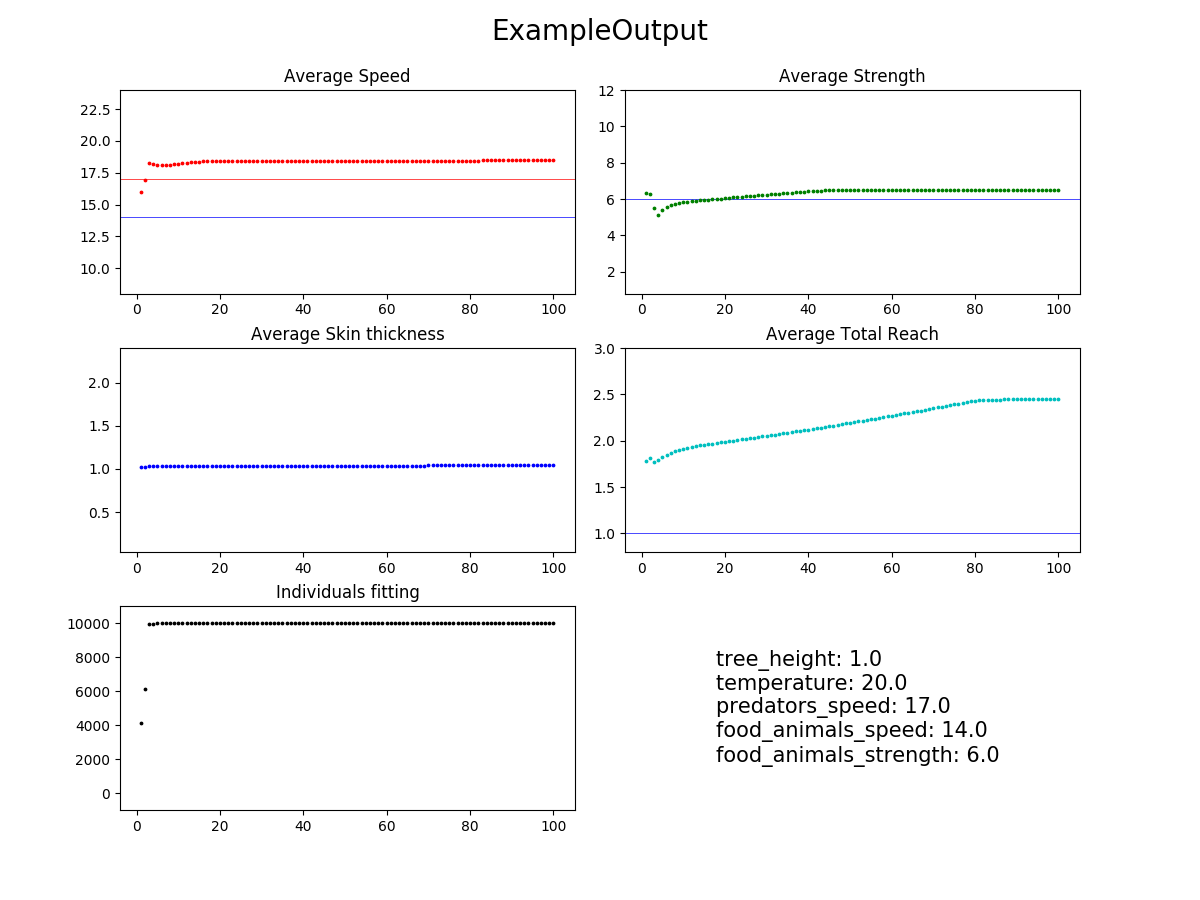
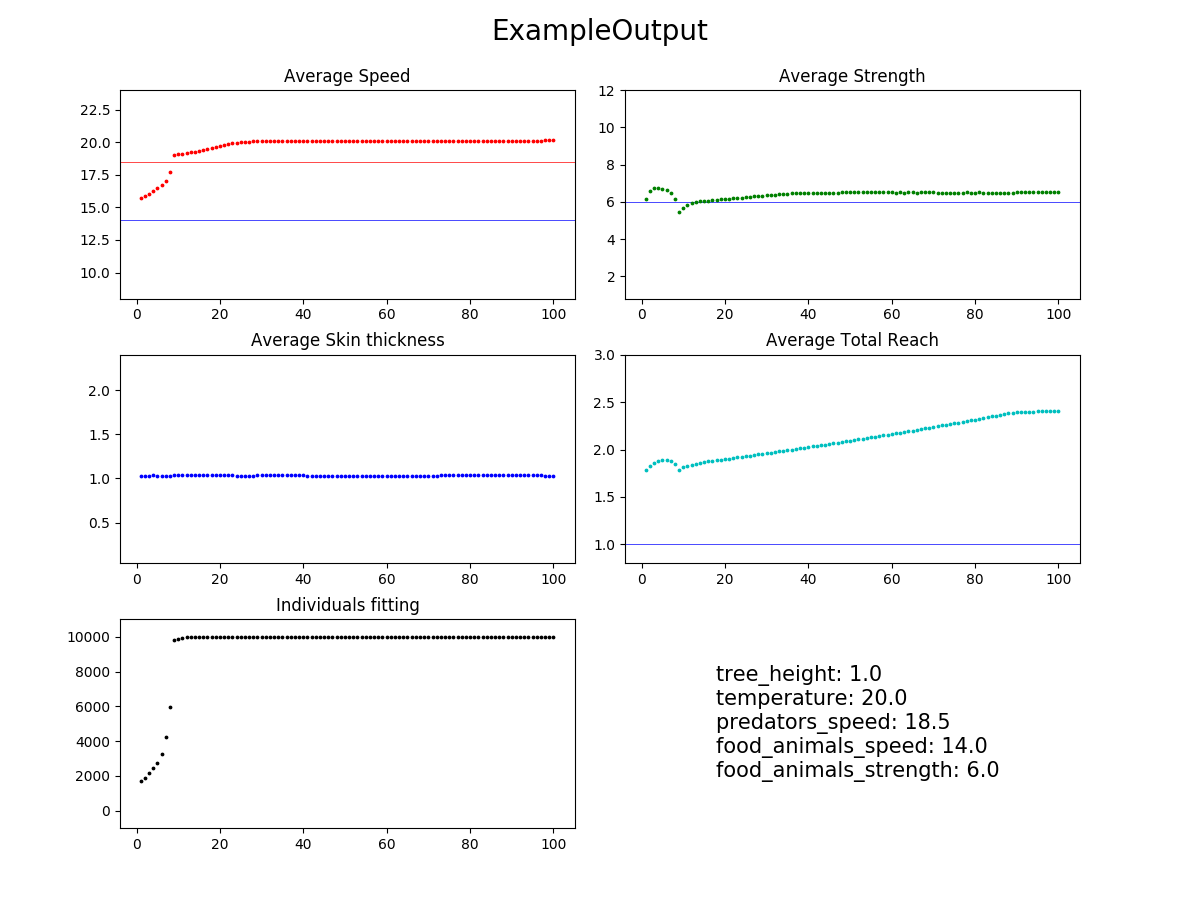
Added posibility of not using MongoDB

diff --git a/src/natural_selection/__init__.py b/src/natural_selection/__init__.py
@@ -2,16 +2,17 @@ from src.natural_selection.filter import filter_individuals, natural_death
 from src.natural_selection.reproduct import reproduction_stage
 from src.tools.analyze import analyze_population
 from src.tools import my_plot
-from src.tools import my_mongo_wrapper
+from src.tools import check_and_return_db
 
 
 def iterate(max_iterations, current_population, environment):
     for iteration in range(1, max_iterations+1):
-        if iteration > 1:
-            my_mongo_wrapper.delete_collection(environment[0], iteration - 1)
-            my_mongo_wrapper.create_collection(environment[0], iteration)
-            my_mongo_wrapper.insert_documents_into_collection(environment[0], iteration, current_population)
-        current_population = my_mongo_wrapper.obtain_all_documents(environment[0], iteration)
+        if check_and_return_db():
+            if iteration > 1:
+                check_and_return_db().delete_collection(environment[0], iteration - 1)
+                check_and_return_db().create_collection(environment[0], iteration)
+                check_and_return_db().insert_documents_into_collection(environment[0], iteration, current_population)
+            current_population = check_and_return_db().obtain_all_documents(environment[0], iteration)
         current_population = filter_individuals(current_population, environment[1])
         current_population = reproduction_stage(iteration, current_population)
         current_population = natural_death(iteration, current_population)

diff --git a/GeneticAlgorithm.py b/GeneticAlgorithm.py
@@ -3,7 +3,7 @@ import sys
 
 from src.natural_selection.populate import create_individuals
 from src.natural_selection import iterate
-from src.tools import my_plot
+from src.tools import my_plot, set_db
 from settings import ENVIRONMENTS, ENVIRONMENT_DEFAULT, max_iterations
 
 
@@ -17,6 +17,10 @@ def args_handler(argv):
     p.add_argument('-i', '--iterations', action='store', type=int,
                    default=max_iterations,
                    help='Number of iterations to run.')
+
+    p.add_argument('-db', '--db', action='store_true',
+                   default=False,
+                   help='Use MongoDB.')
 
     p.add_argument('-c', '--custom', action='store_true',
                    default=False,
@@ -52,6 +56,9 @@ def args_handler(argv):
 def _main(argv):
 
     args = args_handler(argv)
+
+    set_db(args.db)
+
     if args.custom:
         environment_name = args.name
         environment_params = {

diff --git a/src/natural_selection/populate.py b/src/natural_selection/populate.py
@@ -1,15 +1,18 @@
 import random
 
-from src.tools import my_mongo_wrapper
+from src.tools import check_and_return_db
 from settings import INDIVIDUALS_PARAMS, initial_population_size
 
 
 def create_individuals(environment_name):
     current_population = []
-    my_mongo_wrapper.create_collection(environment_name, 1)
+    if check_and_return_db():
+        check_and_return_db().create_collection(environment_name, 1)
     for index in range(0, initial_population_size):
         params = obtain_params(index)
-        my_mongo_wrapper.insert_document_into_collection(environment_name, 1, params)
+        current_population.append(params)
+        if check_and_return_db():
+            check_and_return_db().insert_document_into_collection(environment_name, 1, params)
     return current_population
 
 

diff --git a/src/tools/__init__.py b/src/tools/__init__.py
@@ -1,6 +1,18 @@
-from src.tools.mongodb_wrapper import MongoDBWrapper
 from src.tools.plot import PlotWrapper
 
 
 my_plot = PlotWrapper()
-my_mongo_wrapper = MongoDBWrapper()
+my_mongo_wrapper = None
+
+
+def set_db(activate):
+    from src.tools.mongodb_wrapper import MongoDBWrapper
+    global my_mongo_wrapper
+    if activate:
+        my_mongo_wrapper = MongoDBWrapper()
+    else:
+        my_mongo_wrapper = False
+
+
+def check_and_return_db():
+    return my_mongo_wrapper

diff --git a/src/tools/plot.py b/src/tools/plot.py
@@ -25,7 +25,7 @@ class PlotWrapper:
         self.ax6 = self.fig.add_subplot(3, 2, 6)
         plt.xlabel("Iterations")
         plt.tight_layout()
-        plt.gcf().subplots_adjust(bottom=0.1, right=0.9, left=0.1, top=0.9)
+        plt.gcf().subplots_adjust(bottom=0.08, right=0.9, left=0.1, top=0.9)
 
     def add_limits(self, environment):
         self.ax1.axhline(y=environment['predators_speed'], c="red", linewidth=0.5, zorder=0)

diff --git a/src/natural_selection/filter.py b/src/natural_selection/filter.py
@@ -132,9 +132,9 @@ def check_fast_enough(individual, total_value, environment):
     :rtype: float
     """
     if not is_fast_enough(individual, environment):
-        total_value = total_value * 0.2
+        total_value = total_value * 0.1
     else:
-        total_value = total_value * 1.5
+        total_value = total_value * 2
     return total_value
 
 

diff --git a/README.md b/README.md
@@ -23,7 +23,7 @@
 - asyncio 3.4.3
 - matplotlib 3.1.1
 - numpy 1.16.4
-- pymongo 3.8.0
+- pymongo 3.8.0 (optional)
 - pytest 5.0.1
 
 ## Documentation
@@ -118,7 +118,7 @@ You can define a custom environment by activating the custom flag, and passing t
 
 ```
 -> % python GeneticAlgorithm.py -h
-usage: GeneticAlgorithm.py [-h] [-i ITERATIONS] [-c] [-n NAME]
+usage: GeneticAlgorithm.py [-h] [-i ITERATIONS] [-db] [-c] [-n NAME]
                            [-th TREE_HEIGHT] [-t TEMPERATURE]
                            [-ps PREDATORS_SPEED] [-asp FOOD_ANIMALS_SPEED]
                            [-ast FOOD_ANIMALS_STRENGTH]
@@ -129,6 +129,7 @@ optional arguments:
   -h, --help            show this help message and exit
   -i ITERATIONS, --iterations ITERATIONS
                         Number of iterations to run.
+  -db, --db             Use MongoDB.
   -c, --custom          Flag to activate custom mode, to use environment parameters given by the user.
   -n NAME, --name NAME  Name of the custom execution.
   -th TREE_HEIGHT, --tree_height TREE_HEIGHT
@@ -166,7 +167,7 @@ I have decided to try to use asyncio not only because I wanted to improve my kno
 
 I have decided not to use an API for a few reasons. The dataset used by the algorithm is intern, there are no external outputs, so to have an internal API only to encapsulate the processing code wouldn't make much sense. It would complicate the application without any strong reason.
 
-I'm using MongoDB because the kind of data that I use fits really well (dictionaries) and with MongoDB Compass I can obtain some valuable information from resulting datasets.
+I'm using MongoDB because the kind of data that I use fits really well (dictionaries) and with MongoDB Compass I can obtain some valuable information from resulting datasets. It would be interesting to, instead of simply storing and obtaining all individuals in every iteration, reading and writing individuals 1 by 1. This is not needed right now as the set fits in memory, but it could be a need if we want to use much bigger sets.
 
 ![alt text][logo4]
 
